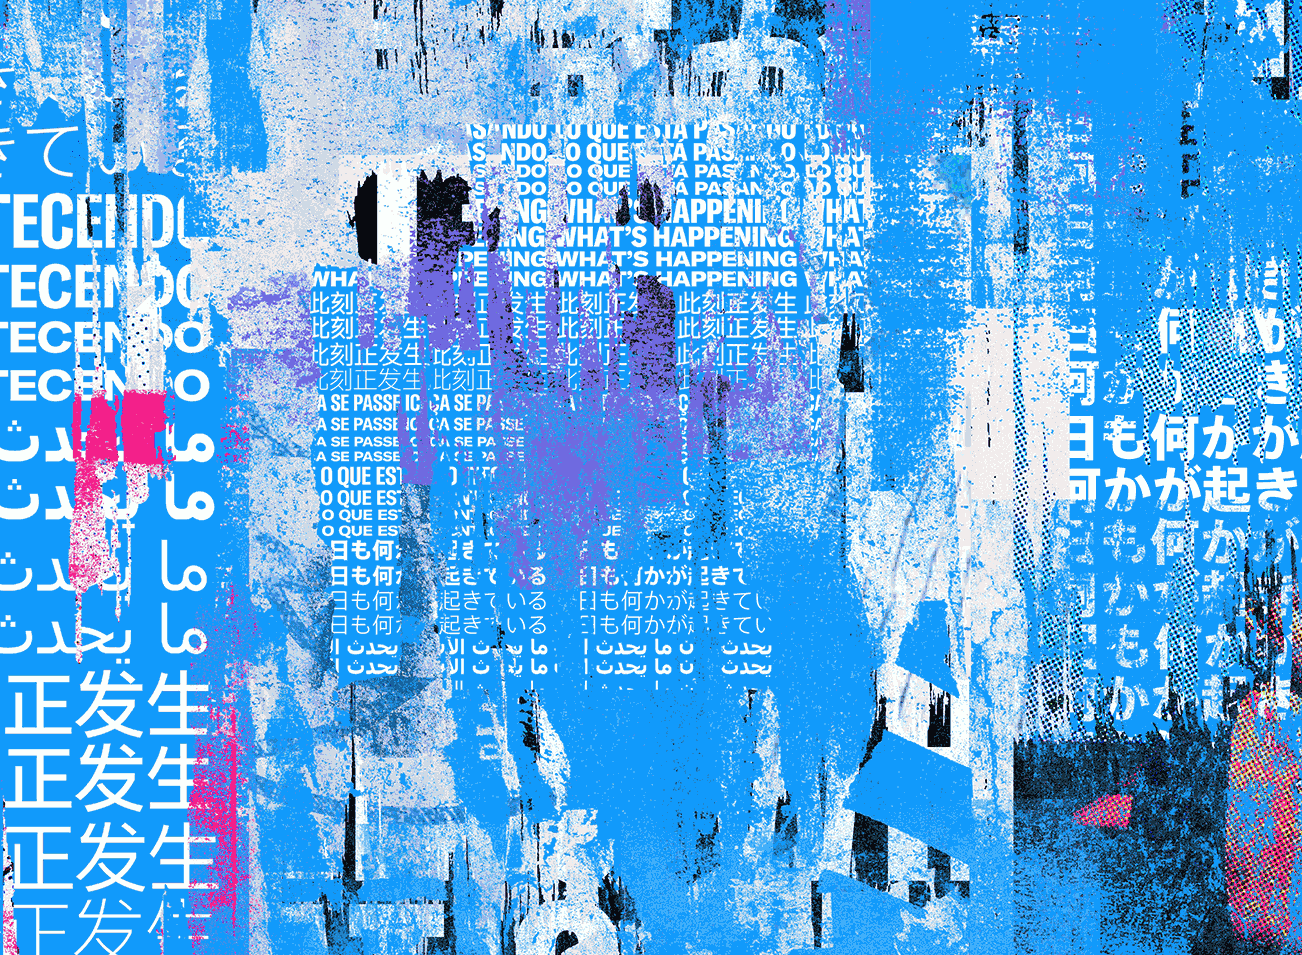
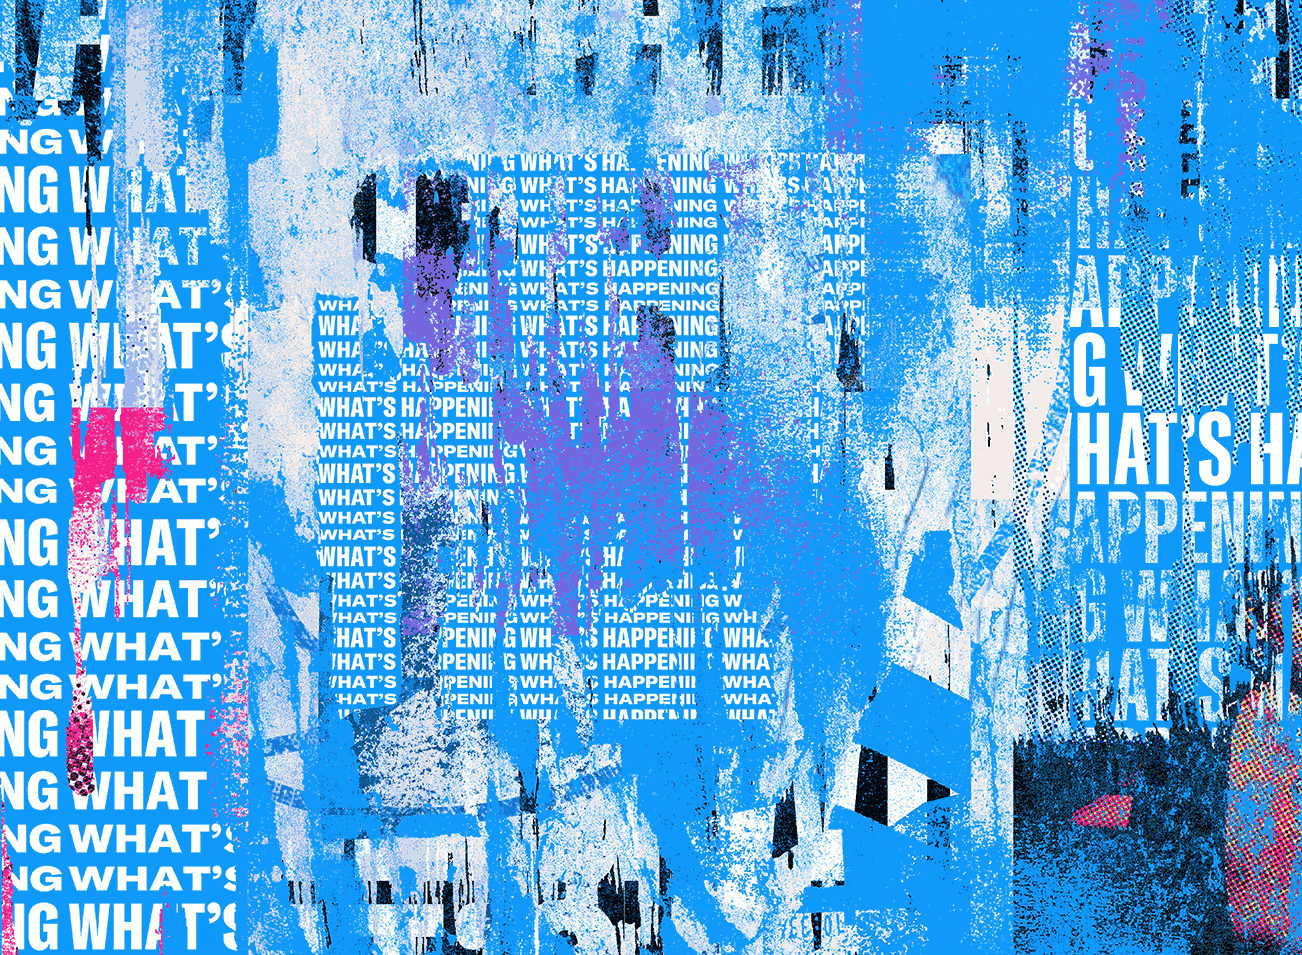
Completed Layout for dark mode, works at max-widht:500px.

diff --git a/twitterclone/index.html b/twitterclone/index.html
@@ -16,8 +16,8 @@
                 <div class="main-login__logo"><i class="fa-brands fa-twitter"></i></div>
                 <h1 class="main-login__title1">Happening now</h1>
                 <h2 class="main-login__title2">Join twitter today.</h2>
-                <button class="main-login__cta google" type="button"><span><i class="fa-brands fa-google"></i></span> Sign up with Google</button>
-                <button class="main-login__cta" type="button"><span><i class="fa-brands fa-apple"></i></span> Sign up with Apple</button>
+                <button class="main-login__cta google" type="button"><span><img src="./assets/images/google.svg" alt=""></span> Sign up with Google</button>
+                <button class="main-login__cta apple" type="button"><span><i class="fa-brands fa-apple"></i></span> Sign up with Apple</button>
                 <div class="main-login__separator">
                     <hr><p>or</p><hr>
                 </div>
@@ -25,34 +25,34 @@
                 <p class="main-login__terms">
                     By signing up, you agree to the <a href="https://twitter.com/tos" target="_blank">Terms of Service</a> and <a href="https://twitter.com/privacy" target="_blank">Privacy Policy</a>, including <a href="https://help.twitter.com/rules-and-policies/twitter-cookies" target="_blank">Cookie Use.</a>
                 </p>
-                <h3 class="main-login__title3">Already have account?</h3>
+                <h3 class="main-login__title3">Already have an account?</h3>
                 <button class="main-login__cta signin" type="button">Sign in</button>
             </section>
             <section class="main-image">
                 <picture class="main-image__logo">
-                    <img src="./assets/images/twitter.svg" alt="Twitter Logo">
+                    <svg viewBox="0 0 24 24" aria-hidden="true" ><g><path d="M23.643 4.937c-.835.37-1.732.62-2.675.733.962-.576 1.7-1.49 2.048-2.578-.9.534-1.897.922-2.958 1.13-.85-.904-2.06-1.47-3.4-1.47-2.572 0-4.658 2.086-4.658 4.66 0 .364.042.718.12 1.06-3.873-.195-7.304-2.05-9.602-4.868-.4.69-.63 1.49-.63 2.342 0 1.616.823 3.043 2.072 3.878-.764-.025-1.482-.234-2.11-.583v.06c0 2.257 1.605 4.14 3.737 4.568-.392.106-.803.162-1.227.162-.3 0-.593-.028-.877-.082.593 1.85 2.313 3.198 4.352 3.234-1.595 1.25-3.604 1.995-5.786 1.995-.376 0-.747-.022-1.112-.065 2.062 1.323 4.51 2.093 7.14 2.093 8.57 0 13.255-7.098 13.255-13.254 0-.2-.005-.402-.014-.602.91-.658 1.7-1.477 2.323-2.41z"></path></g></svg>
                 </picture>
             </section>
             <footer class="footer">
-                <ul class="footer-links">
-                    <li class="footer-links__item"><a href="https://about.twitter.com/" target="_blank">About</a></li>
-                    <li class="footer-links__item"><a href="© 2022 Twitter, Inc." target="_blank">Help Center</a></li>
-                    <li class="footer-links__item"><a href="https://twitter.com/tos" target="_blank">Terms of Service</a></li>
-                    <li class="footer-links__item"><a href="https://twitter.com/privacy" target="_blank">Privacy Policy</a></li>
-                    <li class="footer-links__item"><a href="https://support.twitter.com/articles/20170514" target="_blank">Cookie Policy</a></li>
-                    <li class="footer-links__item"><a href="https://help.twitter.com/resources/accessibility" target="_blank">Accessibility</a></li>
-                    <li class="footer-links__item"><a href="https://business.twitter.com/en/help/troubleshooting/how-twitter-ads-work.html?ref=web-twc-ao-gbl-adsinfo&utm_source=twc&utm_medium=web&utm_campaign=ao&utm_content=adsinfo" target="_blank">Ads Info</a></li>
-                    <li class="footer-links__item"><a href="https://blog.twitter.com/" target="_blank">Blog</a></li>
-                    <li class="footer-links__item"><a href="https://status.twitterstat.us/" target="_blank">Status</a></li>
-                    <li class="footer-links__item"><a href="https://careers.twitter.com/" target="_blank">Carreers</a></li>
-                    <li class="footer-links__item"><a href="https://about.twitter.com/press/brand-assets" target="_blank">Brand Resources</a></li>
-                    <li class="footer-links__item"><a href="https://ads.twitter.com/?ref=gl-tw-tw-twitter-advertise" target="_blank">Advertising</a></li>
-                    <li class="footer-links__item"><a href="https://marketing.twitter.com/" target="_blank">Marketing</a></li>
-                    <li class="footer-links__item"><a href="https://business.twitter.com/?ref=web-twc-ao-gbl-twitterforbusiness&utm_source=twc&utm_medium=web&utm_campaign=ao&utm_content=twitterforbusiness" target="_blank">Twitter for Business</a></li>
-                    <li class="footer-links__item"><a href="https://developer.twitter.com/" target="_blank">Developers</a></li>
-                    <li class="footer-links__item"><a href="https://twitter.com/i/directory/profiles" target="_blank">Directory</a></li>
-                    <li class="footer-links__item"><a href="https://twitter.com/settings" target="_blank">Settings</a></li>
-                </ul>
+                <section class="footer-links">
+                    <a href="https://about.twitter.com/" target="_blank">About</a>
+                    <a href="© 2022 Twitter, Inc." target="_blank">Help Center</a>
+                    <a href="https://twitter.com/tos" target="_blank">Terms of Service</a>
+                    <a href="https://twitter.com/privacy" target="_blank">Privacy Policy</a>
+                    <a href="https://support.twitter.com/articles/20170514" target="_blank">Cookie Policy</a>
+                    <a href="https://help.twitter.com/resources/accessibility" target="_blank">Accessibility</a>
+                    <a href="https://business.twitter.com/en/help/troubleshooting/how-twitter-ads-work.html?ref=web-twc-ao-gbl-adsinfo&utm_source=twc&utm_medium=web&utm_campaign=ao&utm_content=adsinfo" target="_blank">Ads Info</a>
+                    <a href="https://blog.twitter.com/" target="_blank">Blog</a>
+                    <a href="https://status.twitterstat.us/" target="_blank">Status</a>
+                    <a href="https://careers.twitter.com/" target="_blank">Carreers</a>
+                    <a href="https://about.twitter.com/press/brand-assets" target="_blank">Brand Resources</a>
+                    <a href="https://ads.twitter.com/?ref=gl-tw-tw-twitter-advertise" target="_blank">Advertising</a>
+                    <a href="https://marketing.twitter.com/" target="_blank">Marketing</a>
+                    <a href="https://business.twitter.com/?ref=web-twc-ao-gbl-twitterforbusiness&utm_source=twc&utm_medium=web&utm_campaign=ao&utm_content=twitterforbusiness" target="_blank">Twitter for Business</a>
+                    <a href="https://developer.twitter.com/" target="_blank">Developers</a>
+                    <a href="https://twitter.com/i/directory/profiles" target="_blank">Directory</a>
+                    <a href="https://twitter.com/settings" target="_blank">Settings</a>
+                </section>
                 <section class="footer-copy">
                     &copy; 2022 Twitter, Inc.
                 </section>

diff --git a/twitterclone/assets/css/main.css b/twitterclone/assets/css/main.css
@@ -20,6 +20,8 @@ html {
 
 .main {
     width: 100%;
+    background-color: #000;
+    overflow-wrap: break-word;
 }
 
 .main a {
@@ -33,15 +35,17 @@ html {
 
 .main-login {
     width: 100%;
-    background-color: #000;
     color: var(--font-white);
-    padding: 30px;
+    padding: 36px;
     font-weight: 700;
-    overflow-wrap: break-word;
+}
+
+.main-login > * {
+    max-width: 300px;
 }
 
 .main-login__logo {
-    font-size: 4.2rem;
+    font-size: 4.5rem;
     line-height: 4.9rem;
 }
 
@@ -52,15 +56,15 @@ html {
 }
 
 .main-login__title2 {
-    font-size: 2.2rem;
+    font-size: 2.5rem;
     line-height: 2.7rem;
     margin-bottom: 1.9rem;
 }
 
 .main-login__title3 {
-    font-size: 1.6rem;
+    font-size: 1.9rem;
     line-height: 1.9rem;
-    margin-bottom: 1.5rem;
+    margin-bottom: 15px;
     margin-top: 40px;
 }
 
@@ -71,14 +75,21 @@ html {
     min-width: 300px;
     padding: 10px 0;
     border-radius: 25px;
-    font-weight: 700;
+    font-weight: bold;
     outline: none;
     margin-bottom: 16px;
+    font-size: 1.5rem;
+    cursor: pointer;
+    display: flex;
+    align-items: center;
+    justify-content: center;
 }
 
 .main-login__cta span {
     margin-right: 5px;
     color: var(--site-black);
+    height: 18px;
+    font-size: 1.8rem;
 }
 
 .main-login__cta:hover, .main-login__cta:active {
@@ -89,9 +100,22 @@ html {
     color: var(--font-gray);
 }
 
+.google img{
+    width: 100%;
+    height: 100%;
+}
+
+.apple {
+    margin-bottom: 0;
+}
+
 .mail {
     background-color: var(--brand-blue);
     color: var(--font-white);
+}
+
+.mail:hover, .mail:active {
+    background-color: rgba(29, 155, 240, 0.1);
 }
 
 .signin {
@@ -104,23 +128,75 @@ html {
     display: flex;
     flex-wrap: nowrap;
     align-items: center;
-    margin-bottom: 19px;
+    margin: 4px 0;
 }
 
 .main-login__separator > hr {
-    width: 40%;
+    width: 50%;
     height: 1px;
-    border: 1px solid var(--font-gray);
+    background-color: #2f3336;
+    border: 0px solid var(--site-black);
 }
 
 .main-login__separator > p {
     margin: 0 5px;
-    font-size: 1.5rem;
+    font-size: 1.4rem;
     line-height: 2rem;
+    font-weight: 500;
 }
 
 .main-login__terms {
     font-weight: 400;
     color: var(--font-gray);
     margin-bottom: 16px;
+}
+
+.main-image {
+    width: 100%;
+    padding: 32px;
+    height: 376px;
+    background-image: url("../images/lohp_1302x955.png");
+    background-size: cover;
+    background-repeat: no-repeat;
+    background-position: center center;
+    display: flex;
+    justify-content: center;
+    align-content: center;
+}
+
+.main-image__logo, .main-image__logo svg {
+    width: 100%;
+    height: 100%;
+}
+
+.main-image__logo svg {
+    fill: var(--site-white);
+}
+
+.footer {
+    color: var(--font-gray);
+    font-size: 1.2rem;
+    font-weight: 600;
+    display: flex;
+    flex-direction: column;
+    padding: 15px;
+}
+
+.footer-links {
+    width: 100%;
+    display: flex;
+    justify-content: center;
+    flex-wrap: wrap;
+}
+
+.footer-links a{
+    color: var(--font-gray);
+    margin: 4px 0;
+    padding-right: 15px;
+}
+
+.footer-copy {
+    width: 100%;
+    display: flex;
+    justify-content: center;
 }
